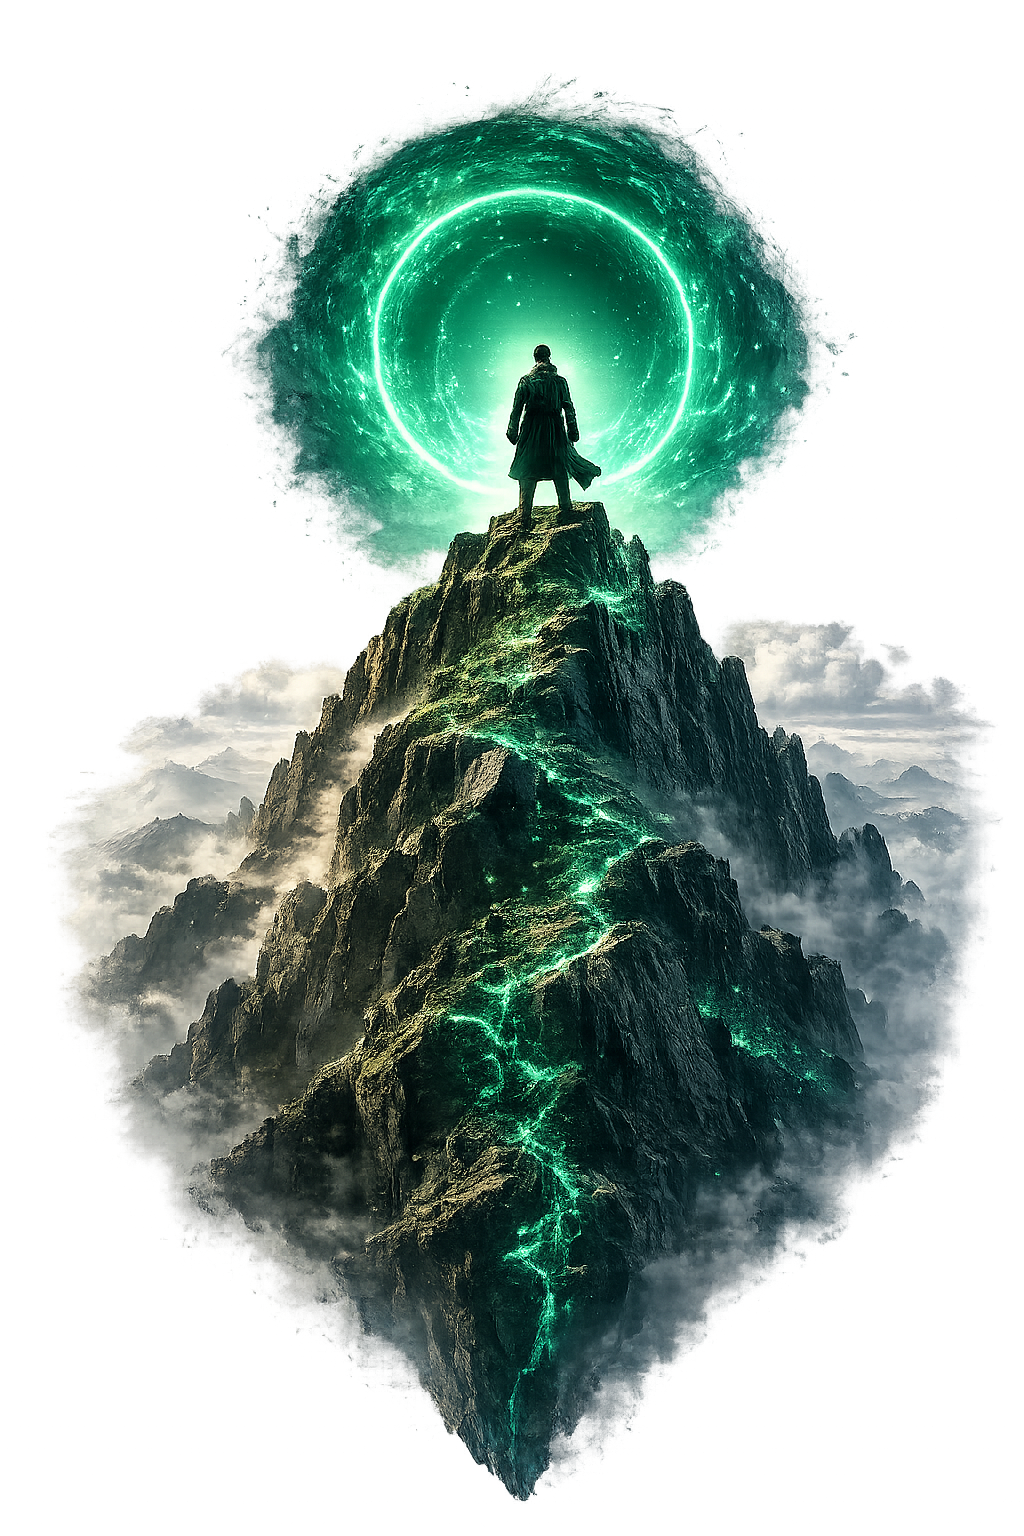
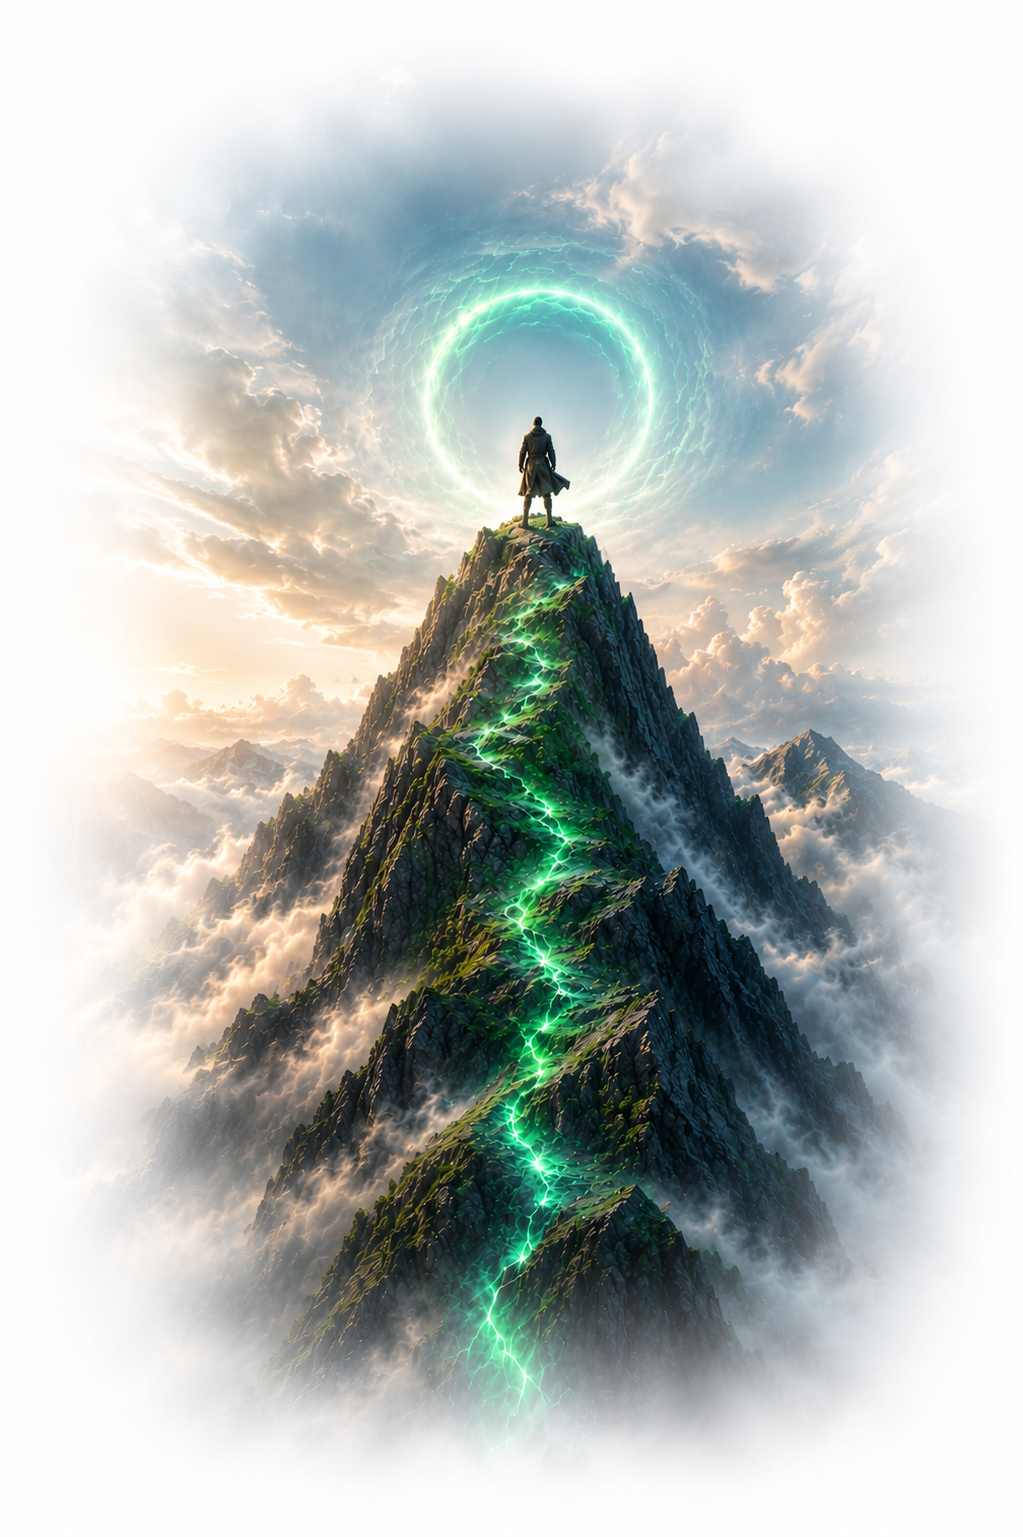
Yangi fon rasmlari + rasmni kattalashtirish + kartalarni pastroqqa
Foydalanuvchi yangi dark.png/light.png qo'ydi (qora fonli, dark'ga singadi).
- #homeBg kattalashtirildi (88% en, 372px) -> odam+cho'qqi+halqa yirikroq/aniq.
- .pcard 66px pastga tushirildi (rasmga joy).
- Rasm URL'ga ?v=2 kesh-buster (yangi rasm deployda darhol chiqsin).
Brauzer: yangi rasm qora fon->silliq singadi, kattaroq, konsol toza.

diff --git a/www/index.html b/www/index.html
@@ -932,7 +932,7 @@ input{font-family:inherit}
 .hero.empty .hero-edit span{color:var(--neon)}
 
 /* Bugungi progress kartasi — halqa + sparkline */
-.pcard{background:rgba(10,20,14,.34);backdrop-filter:blur(22px) saturate(1.2);-webkit-backdrop-filter:blur(22px) saturate(1.2);border:1px solid rgba(255,255,255,.12);box-shadow:inset 0 1px 0 rgba(255,255,255,.08);border-radius:18px;padding:14px 15px;margin:40px 0 0}
+.pcard{background:rgba(10,20,14,.34);backdrop-filter:blur(22px) saturate(1.2);-webkit-backdrop-filter:blur(22px) saturate(1.2);border:1px solid rgba(255,255,255,.12);box-shadow:inset 0 1px 0 rgba(255,255,255,.08);border-radius:18px;padding:13px 15px;margin:66px 0 0}
 .device[data-theme="light"] .pcard{background:rgba(255,255,255,.42);border-color:rgba(255,255,255,.5)}
 .pcard .pc-head{font-size:11px;letter-spacing:.16em;text-transform:uppercase;color:var(--muted);margin-bottom:11px}
 .pcard .pc-row{display:flex;align-items:center;gap:16px}
@@ -985,10 +985,10 @@ input{font-family:inherit}
    pastga qarab so'nadi; kontent ustida. Shaffof PNG bo'lsa "suzuvchi" ko'rinadi. */
 /* Aniq hero: rasm faqat yuqori-o'ngda, to'liq ko'rinadi, chekkalar fonga singadi
    (fog chizig'i yo'q), kartalarga yetmasdan toza so'nadi -> tushunarli qoladi */
-#homeBg{position:absolute;top:-18px;right:-16px;width:74%;height:300px;z-index:0;pointer-events:none;
+#homeBg{position:absolute;top:-22px;right:-18px;width:88%;height:372px;z-index:0;pointer-events:none;
   background-position:right top;background-size:contain;background-repeat:no-repeat;opacity:.98;
-  -webkit-mask-image:radial-gradient(125% 100% at 68% 42%,#000 60%,rgba(0,0,0,.35) 80%,transparent 100%);
-  mask-image:radial-gradient(125% 100% at 68% 42%,#000 60%,rgba(0,0,0,.35) 80%,transparent 100%)}
+  -webkit-mask-image:radial-gradient(128% 104% at 66% 40%,#000 60%,rgba(0,0,0,.32) 80%,transparent 100%);
+  mask-image:radial-gradient(128% 104% at 66% 40%,#000 60%,rgba(0,0,0,.32) 80%,transparent 100%)}
 #v-home>*:not(#homeBg){position:relative;z-index:1} /* barcha kontent fon ustida */
 #device.reduce #homeBg{filter:none}
 .home-quote{display:flex;gap:7px;margin:6px 4px 2px;max-width:70%;font-size:12.5px;line-height:1.4;color:var(--muted)}
@@ -2550,8 +2550,8 @@ function renderHomeBg(){
   var el=$('#homeBg');if(!el)return;
   var light=$('#device').getAttribute('data-theme')==='light';
   var cands=[];
-  if(light){ if(store.user.heroLight)cands.push(store.user.heroLight); cands.push('assets/light.png','assets/hero-light.png'); }
-  else { if(store.user.hero)cands.push(store.user.hero); cands.push('assets/dark.png','assets/hero.png'); }
+  if(light){ if(store.user.heroLight)cands.push(store.user.heroLight); cands.push('assets/light.png?v=2','assets/hero-light.png'); }
+  else { if(store.user.hero)cands.push(store.user.hero); cands.push('assets/dark.png?v=2','assets/hero.png'); }
   var sig=(light?'L:':'D:')+cands.join('|');
   if(sig===_bgSet&&el.style.backgroundImage&&el.style.display!=='none')return;
   (function tryNext(i){
